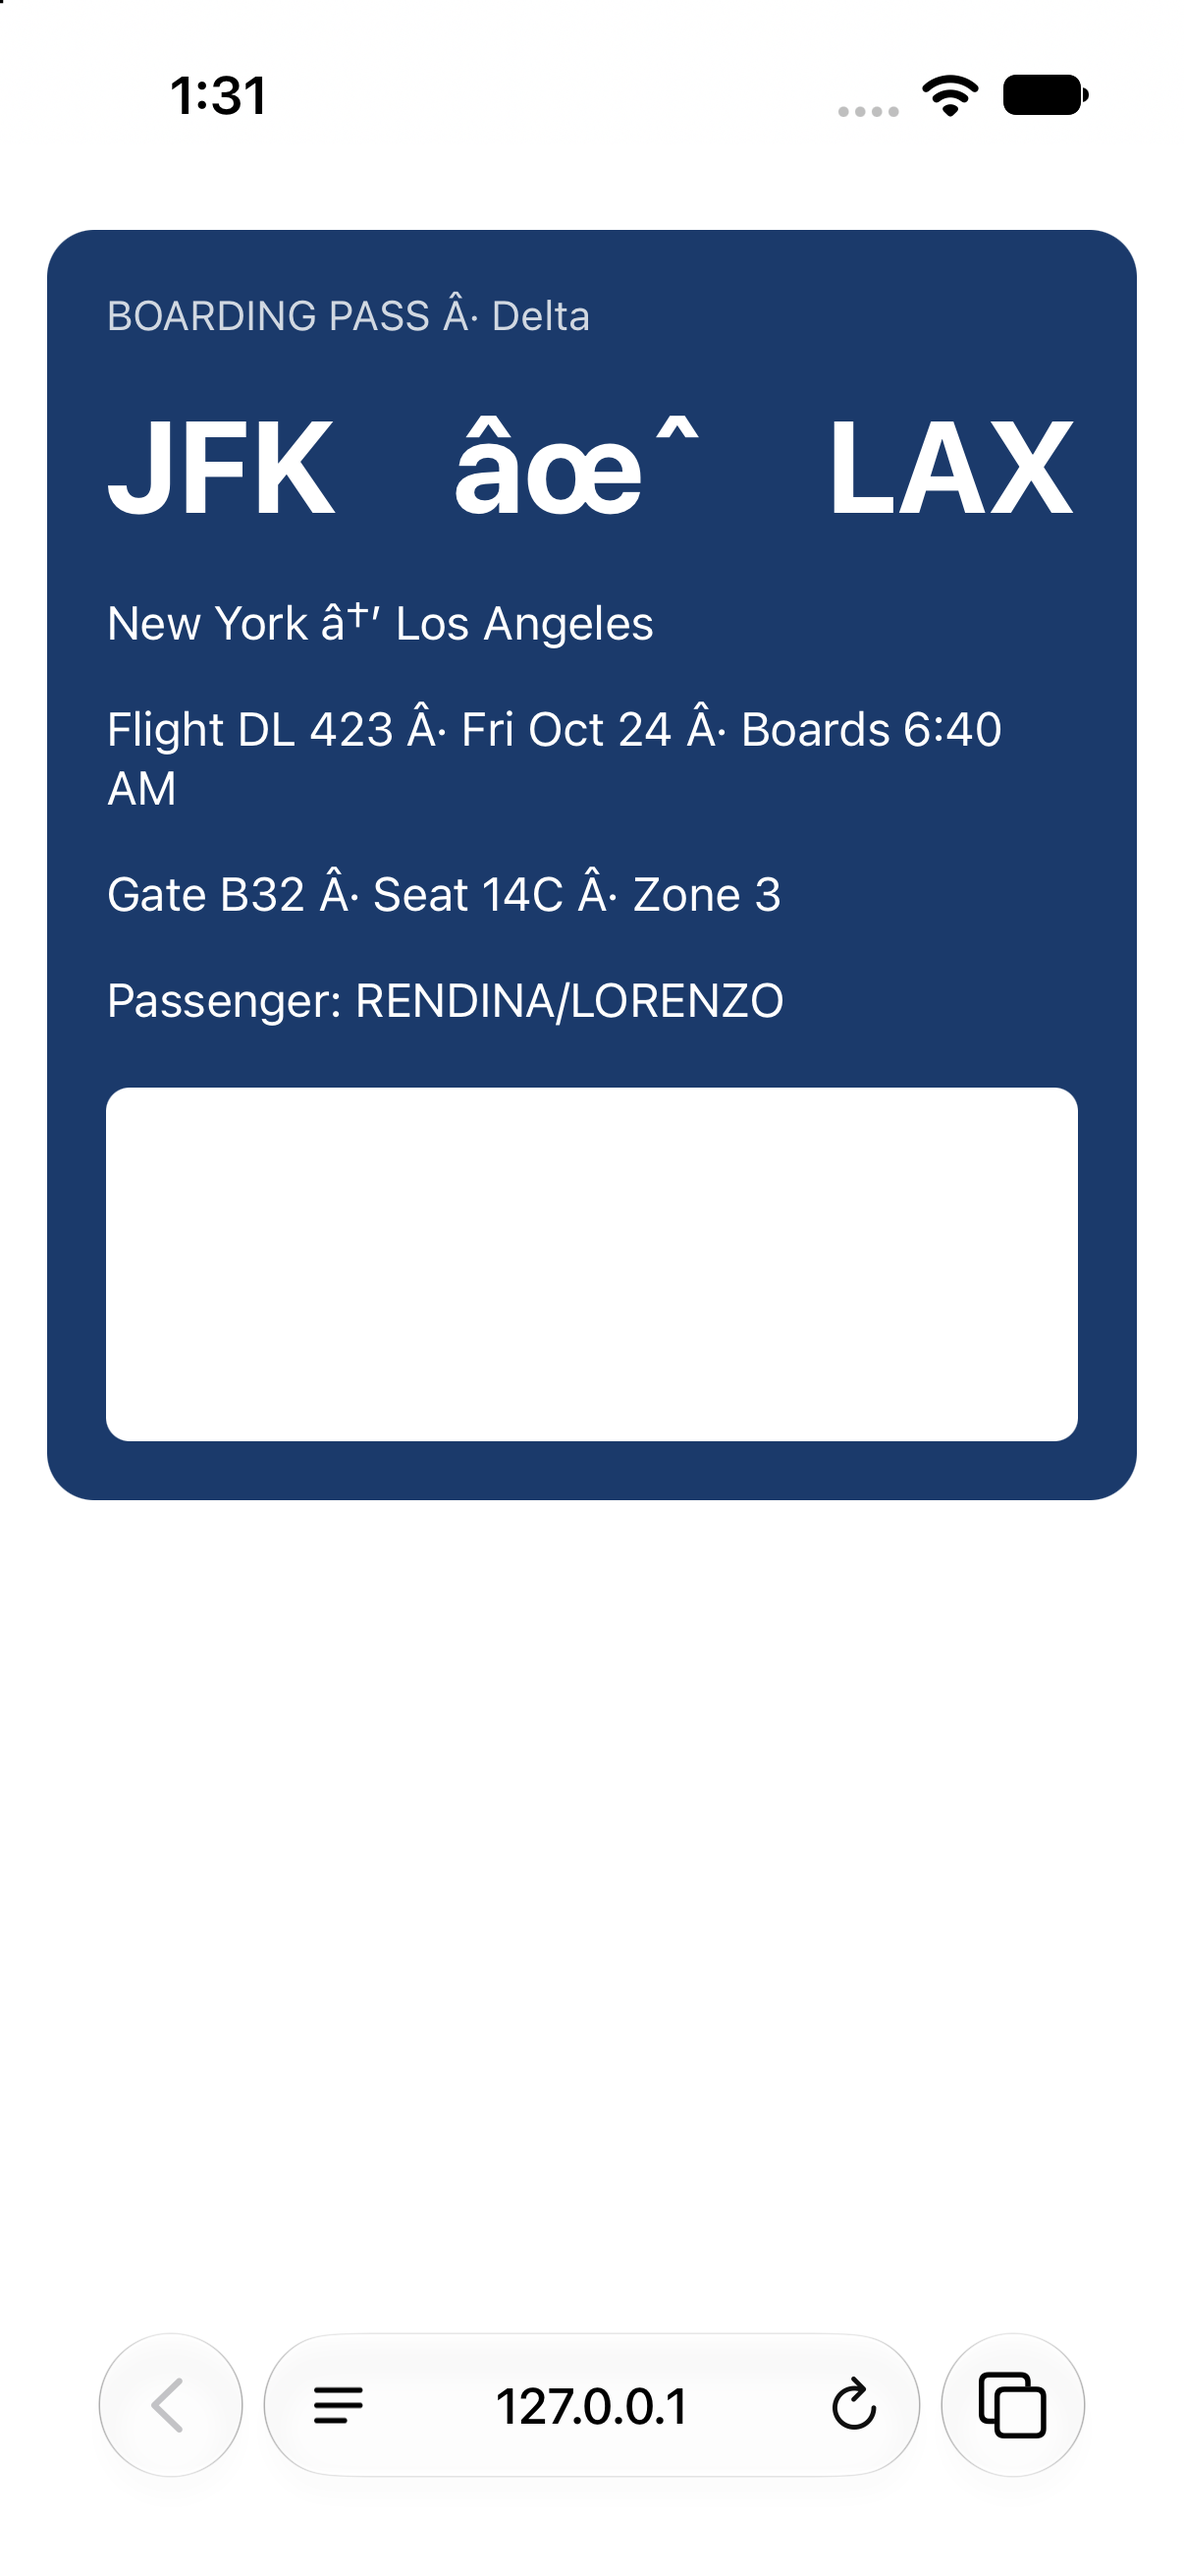
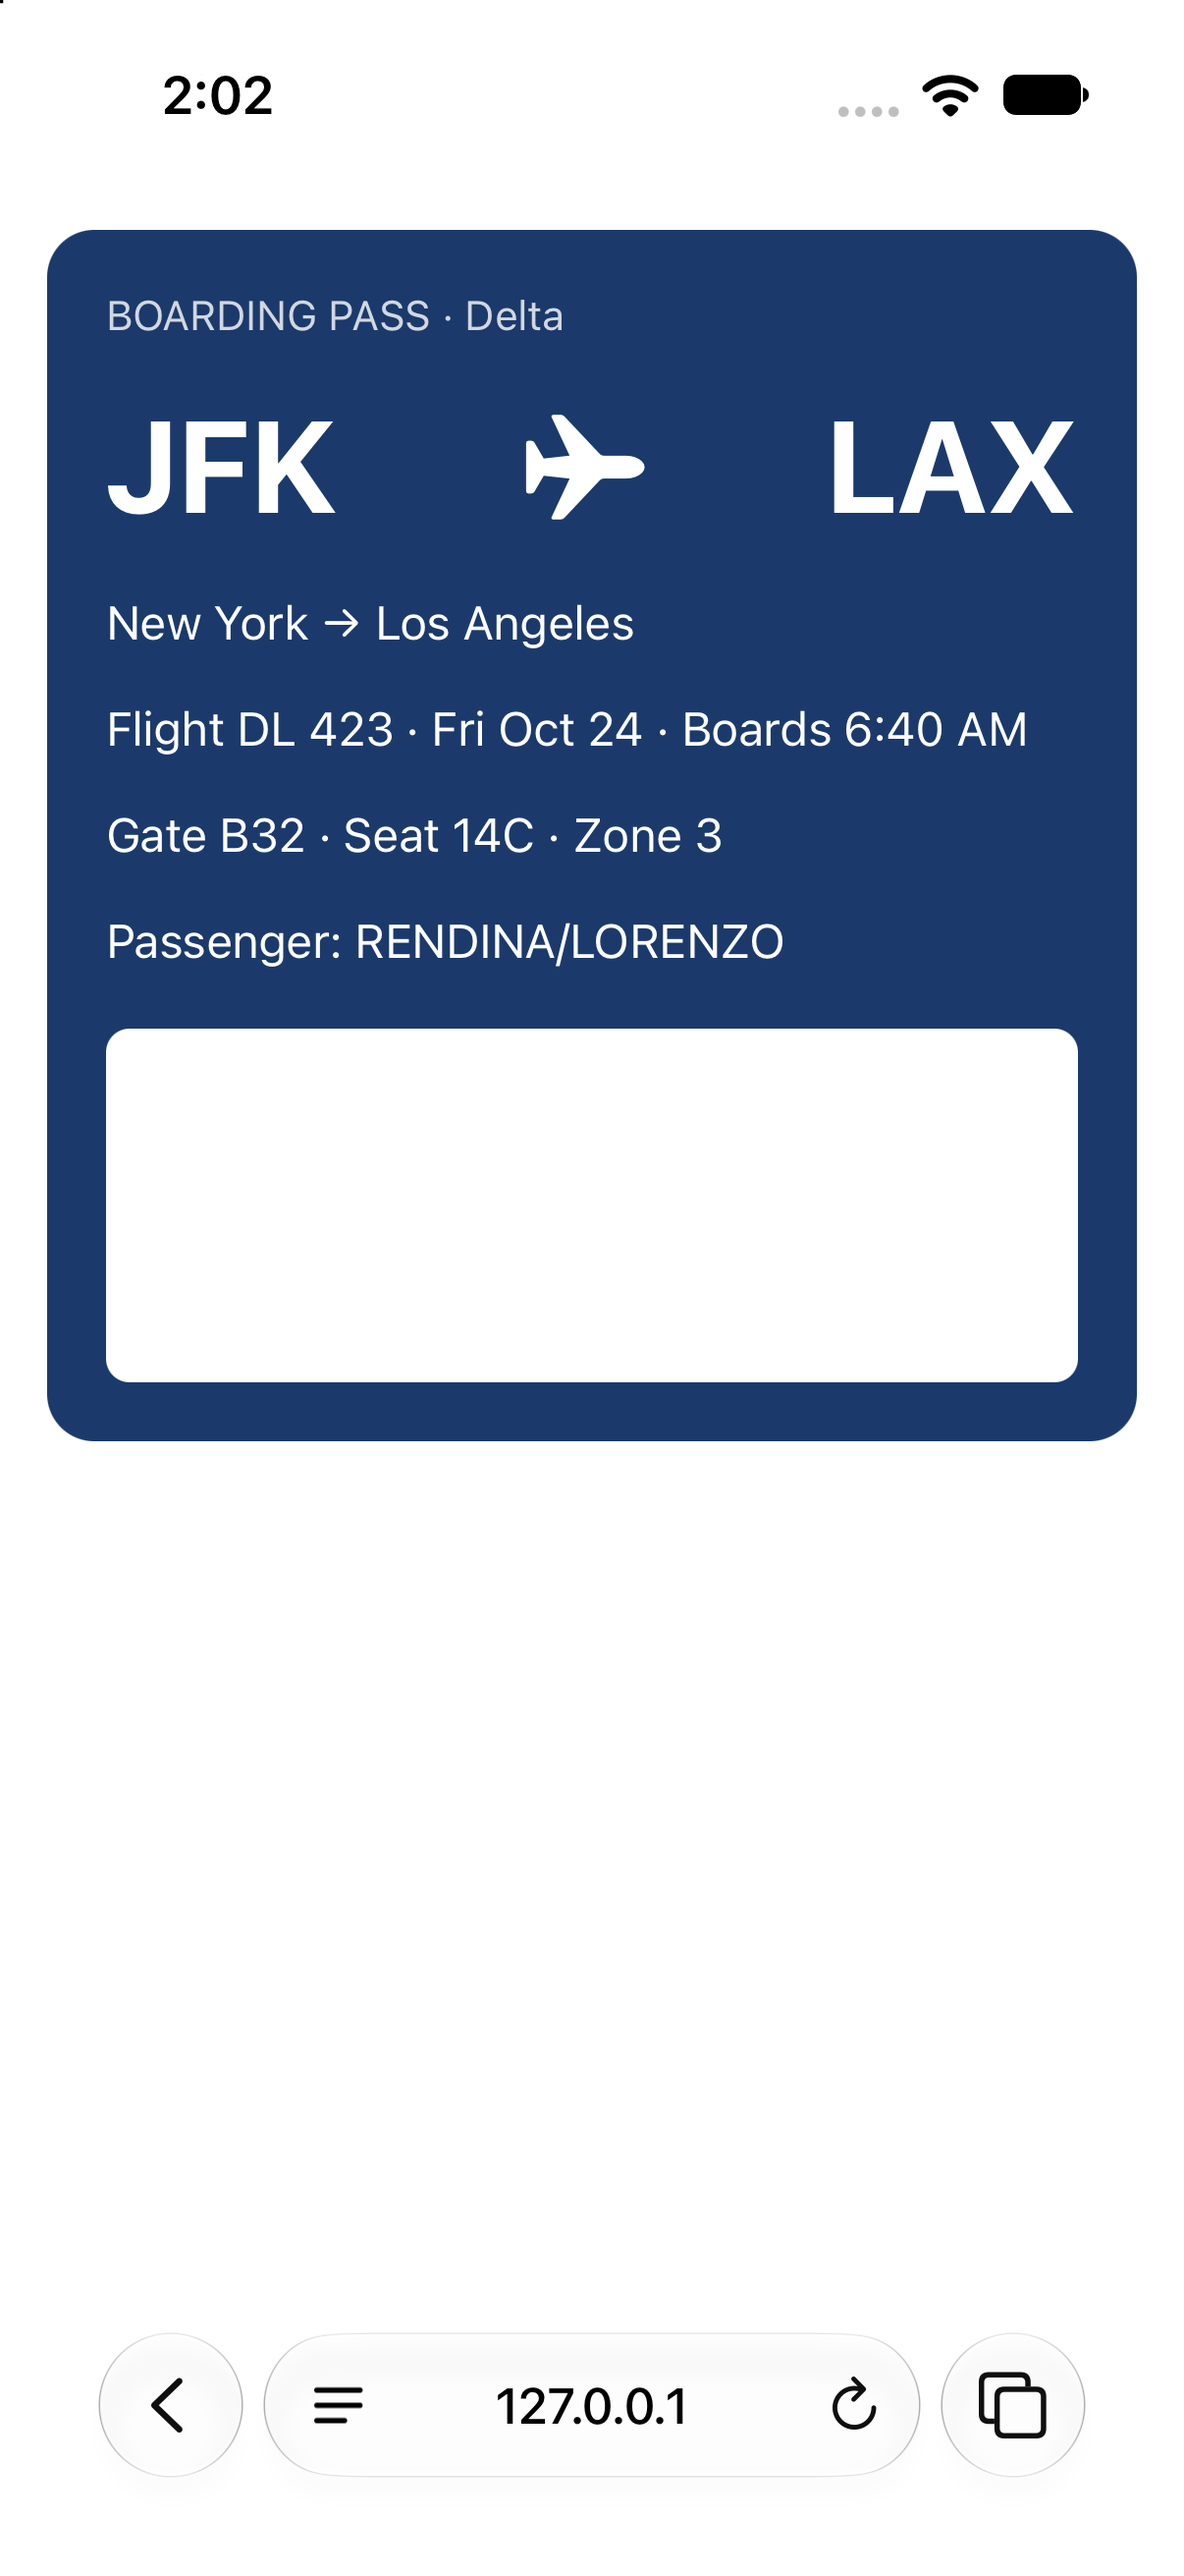
Open-source prep: MIT license, third-party notices, model attribution
- Photos query filters screenshots by subtype or screen size (no full-library scan)
- Recaptured mock fixtures with UTF-8; capture.sh warms up Safari first
- In-app MobileCLIP license notice in Settings

diff --git a/ScreenshotOrganizer/Services/PhotoLibrary.swift b/ScreenshotOrganizer/Services/PhotoLibrary.swift
@@ -11,22 +11,19 @@ enum PhotoLibrary {
     /// exactly matches this device's screen also counts.
     @MainActor
     static func fetchScreenshots() -> [PHAsset] {
+        let screen = UIScreen.main.nativeBounds.size
+        let (w, h) = (Int(screen.width), Int(screen.height))
         let options = PHFetchOptions()
+        // Filter in the Photos query so a large library isn't enumerated in Swift.
+        options.predicate = NSPredicate(
+            format: "(mediaSubtypes & %d) != 0 OR (pixelWidth == %d AND pixelHeight == %d) OR (pixelWidth == %d AND pixelHeight == %d)",
+            PHAssetMediaSubtype.photoScreenshot.rawValue, w, h, h, w
+        )
         options.sortDescriptors = [NSSortDescriptor(key: "creationDate", ascending: false)]
         let result = PHAsset.fetchAssets(with: .image, options: options)
-
-        let screen = UIScreen.main.nativeBounds.size
-        let screenSizes: Set<[Int]> = [
-            [Int(screen.width), Int(screen.height)],
-            [Int(screen.height), Int(screen.width)],
-        ]
         var assets: [PHAsset] = []
-        result.enumerateObjects { asset, _, _ in
-            if asset.mediaSubtypes.contains(.photoScreenshot)
-                || screenSizes.contains([asset.pixelWidth, asset.pixelHeight]) {
-                assets.append(asset)
-            }
-        }
+        assets.reserveCapacity(result.count)
+        result.enumerateObjects { asset, _, _ in assets.append(asset) }
         return assets
     }
 

diff --git a/ScreenshotOrganizer/Views/SettingsView.swift b/ScreenshotOrganizer/Views/SettingsView.swift
@@ -183,6 +183,11 @@ struct LocalModelSection: View {
                 Text(message).font(.footnote).foregroundStyle(.red)
                 Button("Try again") { Task { await store.download() } }
             }
+            Link(destination: URL(string: "https://github.com/apple/ml-mobileclip/blob/main/LICENSE_MODELS")!) {
+                Text("Apple Machine Learning Research Model is licensed under the Apple Machine Learning Research Model License Agreement.")
+                    .font(.caption)
+                    .foregroundStyle(.secondary)
+            }
         }
     }
 }

diff --git a/THIRD_PARTY_NOTICES.md b/THIRD_PARTY_NOTICES.md
@@ -1,0 +1,21 @@
+# Third-party notices
+
+## Code included in this repository
+
+**apple/ml-mobileclip** (`ScreenshotOrganizer/LocalModel/CLIPTokenizer.swift`, `GPT2ByteEncoder.swift`,
+`ScreenshotOrganizer/Resources/clip-vocab.json`, `clip-merges.txt`). MIT License, Copyright © 2024 Apple Inc.
+https://github.com/apple/ml-mobileclip/blob/main/LICENSE
+
+These files are in turn adapted from **huggingface/swift-coreml-transformers** (Apache License 2.0).
+https://github.com/huggingface/swift-coreml-transformers
+
+The copied files were changed to load the vocabulary from URLs, drop the `Utils` dependency, and truncate input longer than 77 tokens.
+
+## Models downloaded at runtime (not included in this repository)
+
+**MobileCLIP-S0** Core ML encoders, downloaded by the app from https://huggingface.co/apple/coreml-mobileclip.
+
+Apple Machine Learning Research Model is licensed under the Apple Machine Learning Research Model License Agreement.
+https://github.com/apple/ml-mobileclip/blob/main/LICENSE_MODELS
+
+That license limits use of the weights to non-commercial research. This repository's MIT license covers only the code here, not the model weights.

diff --git a/README.md b/README.md
@@ -83,5 +83,8 @@ DevFixtures/                  mock pages, capture script, labeled screenshots
 
 ## Licenses
 
+The app's code is MIT (see [LICENSE](LICENSE)); third-party code and models are listed in [THIRD_PARTY_NOTICES.md](THIRD_PARTY_NOTICES.md).
+
+
 - Tokenizer code: `apple/ml-mobileclip` (MIT), adapted from Hugging Face `swift-coreml-transformers`.
 - **MobileCLIP weights are research-only.** They're under the Apple Machine Learning Research Model License ([LICENSE_MODELS](https://github.com/apple/ml-mobileclip/blob/main/LICENSE_MODELS)), which allows "non-commercial scientific research" and excludes "use in any commercial product or service". They're downloaded at runtime, not bundled. Fine for experimenting and research; any release to users needs a model with a commercial-friendly license. `MobileCLIP.swift` is plain CLIP zero-shot code, so any CLIP-style Core ML image/text encoder pair with 512-d outputs can be dropped in.
